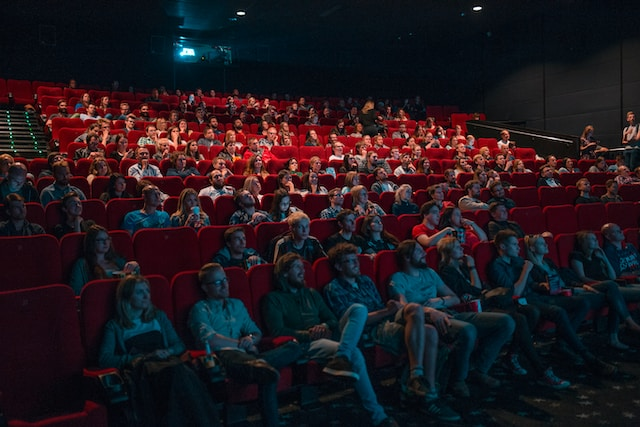
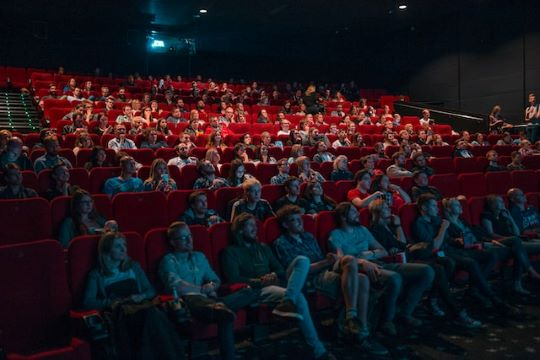
fixed issues with responsiveness

diff --git a/index.html b/index.html
@@ -27,7 +27,7 @@
             <p>Your Gateway to the Silver Screen</p>
         </div>
         <div class="title-img">
-            <img src="images/theatre.jpg">
+            <img src="images/theatre.jpg" class="resize">
         </div>
     </section>
 
@@ -74,10 +74,10 @@
                 <button class="btn">Explore <i class="fa-solid fa-arrow-right"></i></button>
             </a>
         </div>
-        <img src="https://www.hawkherald.com/wp-content/uploads/sites/4/2023/01/Screenshot-2023-01-23-11.04.49-AM.png" width="500">
+        <img src="https://www.hawkherald.com/wp-content/uploads/sites/4/2023/01/Screenshot-2023-01-23-11.04.49-AM.png" width="500" class="resize">
     </section>
     <section class="currently coming">
-        <img src="https://images.yourstory.com/cs/2/3fb20ae02dc911e9af58c17e6cc3d915/Imageuues-1604750423473.jpg?w=1152&fm=auto&ar=2:1&mode=crop&crop=faces" width="500">
+        <img src="https://images.yourstory.com/cs/2/3fb20ae02dc911e9af58c17e6cc3d915/Imageuues-1604750423473.jpg?w=1152&fm=auto&ar=2:1&mode=crop&crop=faces" width="500" class="resize">
         <div class="text">
             <h2>COMING SOON</h2>
             <div class="line light"></div>

diff --git a/style.css b/style.css
@@ -379,6 +379,16 @@ form small a:hover {
     opacity: 1;
 }
 
+@media screen and (max-width: 1200px){
+    .front{
+        flex-direction: column-reverse;
+    }
+    .resize {
+        width: 300px;
+        height: auto;
+    }
+}
+
 
 @media  screen and (max-width: 768px) {
     .front{
@@ -410,5 +420,22 @@ form small a:hover {
     .movie-info{
         align-items: center;
         justify-content: center;
+    }
+
+    .resize{
+        width: 200px;
+        height: auto;
+    }
+}
+
+@media screen and (max-width: 480px){
+    header{
+        display: none;
+    }
+    .front h1{
+        font-size: 2rem;
+    }
+    h2{
+        font-size: 1.2rem;
     }
 }
